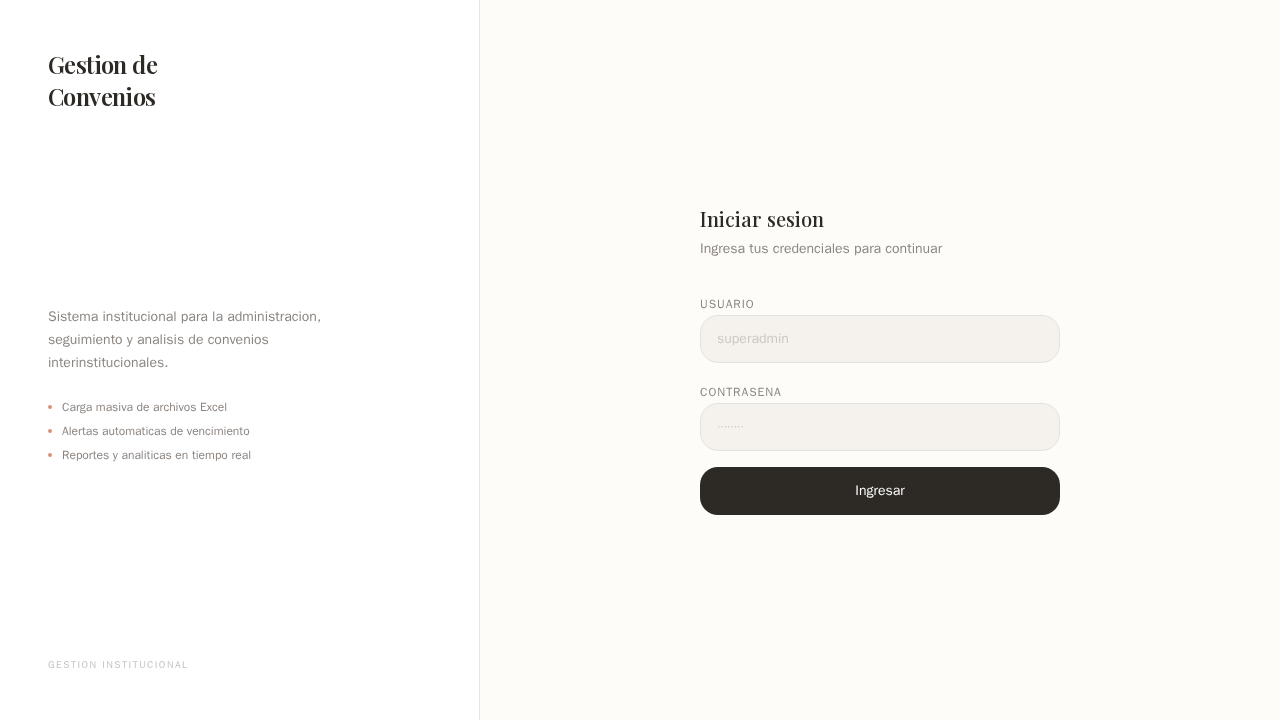
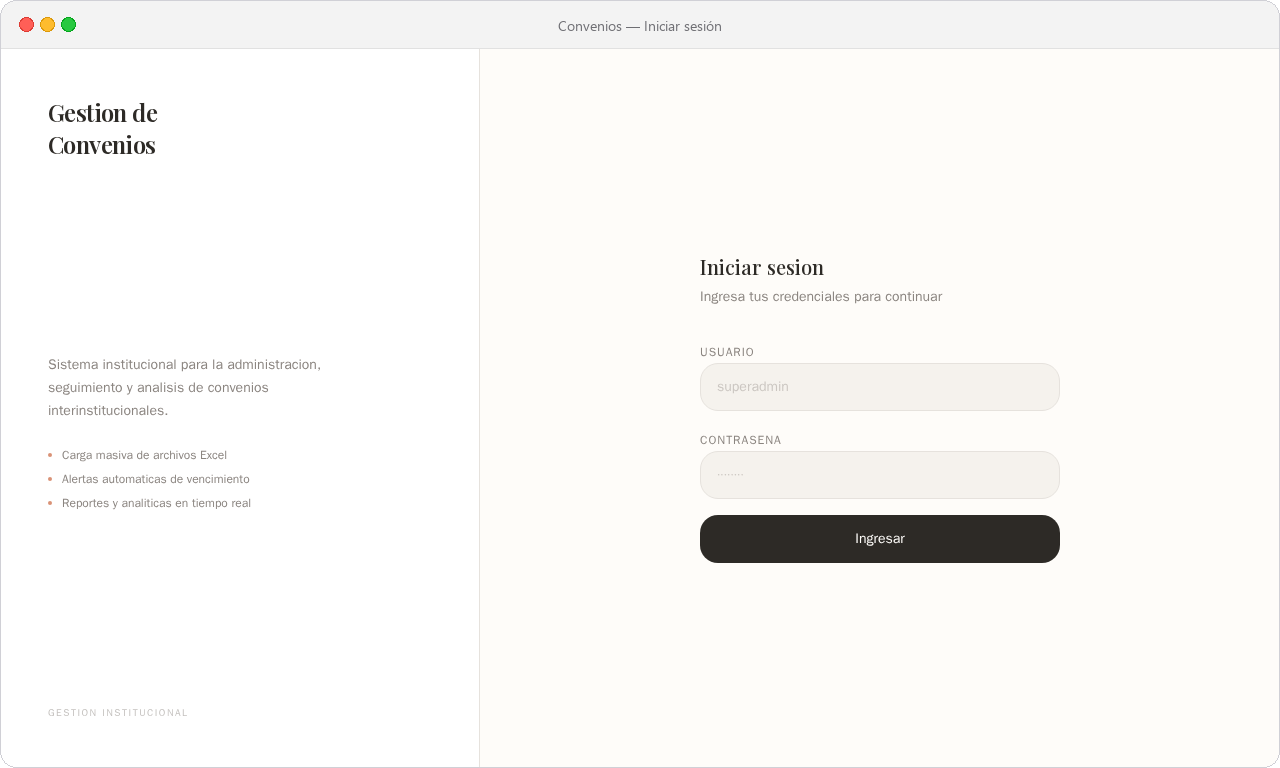
Reframe README as a case study for a private client project
The repository only contains the design system and screenshots; the
application code is private. Document that instead of implying a runnable
app, and wrap the screenshots in macOS window frames.

diff --git a/README.md b/README.md
@@ -1,97 +1,102 @@
-<picture>
-  <source media="(prefers-color-scheme: dark)" srcset="screenshots/02-dashboard.png">
-  <img src="screenshots/02-dashboard.png" alt="Convenios Dashboard" width="100%">
-</picture>
+# Convenios — Gestión institucional de convenios
 
-# Convenios — Gestión Institucional
+Interfaz y sistema de diseño de una plataforma privada para administrar convenios
+interinstitucionales en una institución educativa. El código de la aplicación pertenece al
+cliente; este repositorio documenta el producto y sus decisiones de diseño.
 
-Sistema de gestión, seguimiento y analítica de convenios interinstitucionales. Diseñado para instituciones educativas que administran cientos de acuerdos con entidades externas.
+![Panel de control](screenshots/02-dashboard.png)
 
----
+## Contexto
 
-## Características
+Una institución educativa administra cientos de convenios con entidades externas: empresas,
+alcaldías y universidades. El seguimiento vivía en hojas de cálculo separadas, sin una vista
+consolidada de vencimientos y sin control sobre quién podía editar qué.
 
-- **Carga masiva Excel** — Subí archivos `.xlsx` y el sistema procesa, valida e inserta cada registro automáticamente
-- **Alertas de vencimiento** — Dashboard con KPIs de convenios vigentes, por vencer y vencidos. Alertas visuales automáticas
-- **Analíticas en tiempo real** — Distribución por facultad, estado, y línea de tiempo. Gráficos interactivos
-- **3 niveles de acceso** — Superadmin, Supervisor y Visitor con permisos granulares
-- **Exportación** — Descarga de reportes en Excel, PDF y DOCX
-- **Búsqueda y filtros** — Búsqueda full-text, filtros por facultad, estado, entidad y sede
+La plataforma reemplaza ese proceso con un panel único: carga masiva desde Excel, alertas de
+vencimiento, analítica por facultad y tres niveles de acceso.
 
----
+## Qué hace
 
-## Diseño
+- **Carga masiva desde Excel** — procesa, valida e inserta cada registro sin captura manual
+- **Alertas de vencimiento** — KPIs de convenios vigentes, por vencer y vencidos, con aviso visual
+- **Analítica** — distribución por facultad, estado y línea de tiempo
+- **Tres niveles de acceso** — superadmin, supervisor y visitante, con permisos granulares
+- **Exportación** — reportes en Excel, PDF y DOCX
+- **Búsqueda y filtros** — texto completo y filtros por facultad, estado, entidad y sede
 
-El sistema sigue una filosofía de diseño **Kenya Hara** (Muji): calma visual, vacío intencional, calidez táctil. La información respira.
+## Capturas
 
-### Design Tokens
+### Inicio de sesión
+
+![Inicio de sesión](screenshots/01-login.png)
+
+Layout dividido: identidad institucional a la izquierda, formulario minimal a la derecha.
+
+### Panel de control
+
+![Panel de control](screenshots/02-dashboard.png)
+
+KPI principal, métricas secundarias, distribución por estado y listado de próximos
+vencimientos.
+
+### Gestión de convenios
+
+![Gestión de convenios](screenshots/03-convenios.png)
+
+Tabla con búsqueda, filtros múltiples, carga por arrastre y detalle de cada convenio.
+
+### Analítica
+
+![Analítica](screenshots/04-analitica.png)
+
+Distribución por facultad y estado, y evolución temporal.
+
+## Sistema de diseño
+
+La interfaz sigue la línea de Kenya Hara y Muji: calma visual, vacío intencional, bordes en
+lugar de sombras y un solo color de acción.
+
+### Tokens
 
 | Token | Valor |
-|-------|-------|
-| Background | `#FEFCF9` — blanco cálido |
-| Foreground | `#2D2A26` — carbón |
-| Primary | `#C04A1A` — coral |
-| Border | `#E6E2DD` — stone |
-| Radius | `12px` — suave, orgánico |
+|---|---|
+| Fondo | `#FEFCF9` — blanco cálido |
+| Texto | `#2D2A26` — carbón |
+| Acento | `#C04A1A` — coral |
+| Borde | `#E6E2DD` — piedra |
+| Radio | `12px` |
 
 ### Tipografía
 
 | Rol | Fuente |
-|-----|--------|
-| Display | **Playfair Display** — serif, autoridad |
-| Body | **Inter** — limpia, legible |
-| Data | **JetBrains Mono** — precisión numérica |
+|---|---|
+| Títulos | Playfair Display |
+| Texto | Inter |
+| Datos | JetBrains Mono |
 
----
+### Principios
 
-## Pantallas
-
-### Login
-<img src="screenshots/01-login.png" alt="Login" width="100%">
-
-*Split layout institucional. Panel izquierdo con identidad de marca y features. Formulario derecho minimal sin ruido visual.*
-
-### Panel de Control
-<img src="screenshots/02-dashboard.png" alt="Dashboard" width="100%">
-
-*Hero KPI con número total. Stats secundarios sin saturación cromática. Gráficos de distribución por estado y facultad. Lista de próximos vencimientos con acceso rápido al detalle.*
-
-### Gestión de Convenios
-<img src="screenshots/03-convenios.png" alt="Convenios" width="100%">
-
-*Vista completa con búsqueda, filtros múltiples, carga de Excel drag & drop, y cards de convenios con información clave. Sidebar minimal con navegación tipográfica.*
-
-### Analítica
-<img src="screenshots/04-analitica.png" alt="Analítica" width="100%">
-
-*Dashboard de datos con distribución por facultad, estado, y evolución temporal. Paleta cromática natural derivada de los design tokens.*
-
----
+- **Bordes sobre sombras** — jerarquía sin elevación artificial
+- **Un acento, no cinco** — el coral es el único color de acción
+- **Tipografía como identidad** — Playfair Display da carácter institucional sin logos
+- **Vacío intencional** — la información importante respira
+- **Sin decoración** — cada elemento se gana su lugar
 
 ## Stack
 
 | Capa | Tecnología |
-|------|-----------|
+|---|---|
 | Framework | Next.js 16 (App Router) |
-| UI | React 19 + Tailwind CSS v4 + shadcn/ui |
-| Base de datos | PostgreSQL 14 + Prisma |
-| Tipografía | Playfair Display + Inter + JetBrains Mono |
+| UI | React 19, Tailwind CSS v4, shadcn/ui |
+| Datos | PostgreSQL 14, Prisma, Zod |
 | Gráficos | Recharts |
-| Validación | Zod |
 | Despliegue | Cloudflare Tunnel + HTTPS |
 
----
+## Alcance de este repositorio
 
-## Principios de diseño
+Este repositorio es una vitrina, no la aplicación. Incluye capturas y documentación del
+sistema de diseño; el código, el esquema de base de datos y las credenciales pertenecen al
+cliente y no se publican.
 
-- **Bordes sobre sombras** — Definición visual sin elevación artificial
-- **Un acento, no cinco** — Coral `#C04A1A` como único color de acción
-- **Tipografía como identidad** — Playfair Display da carácter institucional sin logos
-- **Vacío intencional** — La información importante tiene espacio para respirar
-- **Sin decoración** — Cada elemento gana su lugar. Cero iconos de relleno
-
----
-
-## Licencia
-
-MIT
+No hay demo pública por confidencialidad del proyecto. Si necesitas una revisión del
+producto terminado, escríbeme desde [mi perfil](https://github.com/c26200).
